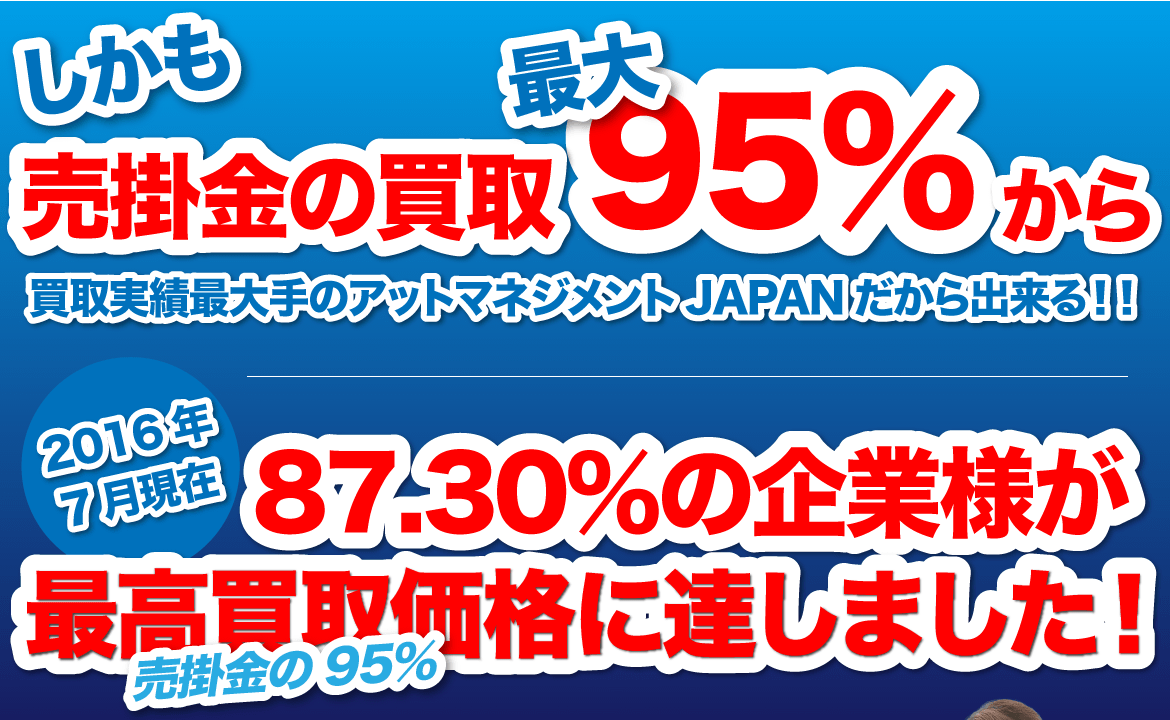
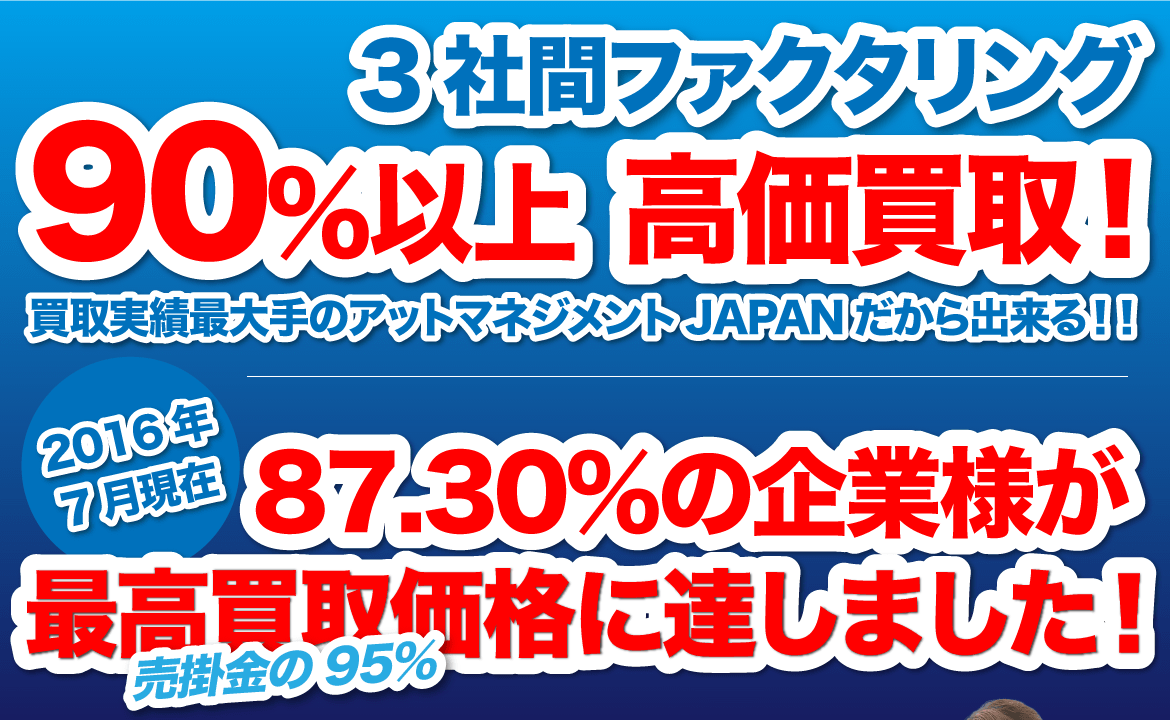
[FIX]実績修正

diff --git a/index.html b/index.html
@@ -530,7 +530,7 @@
 また５０００万円以上の買取をご希望の企業様も取引先企業様の与信状況次第でご相談可能ですのでお気軽にお問い合わせください。</p>
 							</div>
 							<div class="col-lg-12 riyuu_back space10">
-								<h3 class="riyuu_midashi">4.最大買取価格９５％</h3>
+								<h3 class="riyuu_midashi">4.3社間ファクタリング　90％以上高価買取</h3>
 								<p class="riyuu_read">他社で広告の内容と異なった買取価格で満足いかなかった経験はありませんか？<br>
 アットマネジメントJAPANではファクタリングをご利用する企業様が一番重要視しているのは「高額買取」であることを理解し、独自の審査基準により「高額買取」により中小企業様の資金繰り改善に全力でサポートさせていただきます。<br>
 会社のことを考え事業に取り組む中小企業様の味方であることがアットマネジメントJAPANの存在意義であると考えております。<br>

diff --git a/performance/index.html b/performance/index.html
@@ -244,7 +244,7 @@
 		<div class="container">
 			<div class="row">
 				<div class="col-lg-12"> 
-					<h2 class="marginReset"><img src="images/saikou.png" class="img-responsive retina" alt="しかも売掛金の買取最大95％から　買取実績最大手のアットマネジメントJAPANだから出来る!!　2016年7月現在87.30％の企業様が最高買取価格（売掛金の95％）に達しました!"></h2>
+					<h2 class="marginReset"><img src="images/saikou.png" class="img-responsive retina" alt="3社間ファクタリング　90％以上高価買取！　買取実績最大手のアットマネジメントJAPANだから出来る!!　2016年7月現在87.30％の企業様が最高買取価格（売掛金の95％）に達しました!"></h2>
 				</div>
 					<div class="col-lg-12"><img src="images/zuiichi.png" class="img-responsive retina" alt="全国随一の買取実績!2016年7月31日現在　関東33％　関西近畿地方25％　九州地方16％　その他26％"></div>
 				
